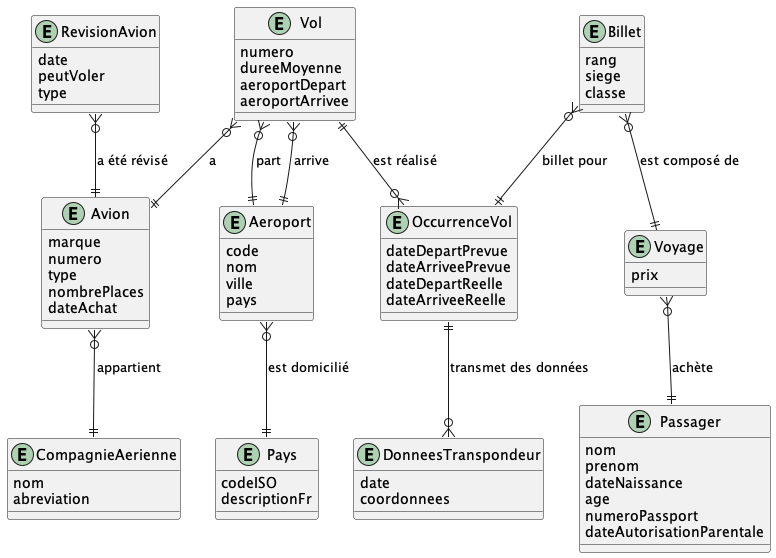
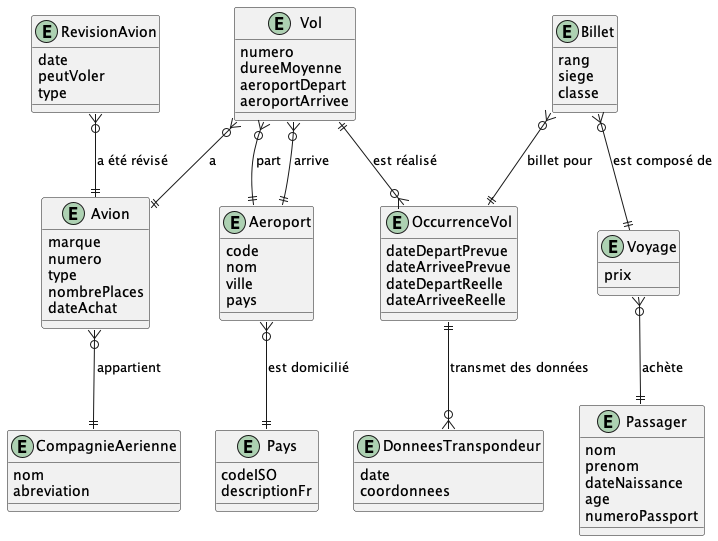
Ajout numéro requete

diff --git a/README.md b/README.md
@@ -1,4 +1,4 @@
-# TP1 - Réservation de billet d'avions
+# TP1 - Réservation de billets d'avions
 
 ## 1 - Directives
 
@@ -12,7 +12,7 @@
 - Tout constat de plagiat, tricherie ou fraude sera automatiquement déclaré à la Direction et les sanctions prévues seront appliquées
 - Vous devez utiliser votre dépôt Git pour faire votre travail : si une situation particulière est détectée, vos commits moduleront votre note dans le groupe et peut même aller jusqu'à un zéro en cas de non participation. (Attention à l'utilisation de 4 mains sur un compte Git !)
 - Durée : 3 x 3 heures + travail à la maison
-- Plate forme : Azure DevOps et dotnet/react
+- Plate forme : Microsoft SQL Server, GitHub, Visual Studio Code
 
 ### 1.2 - À remettre sur la plateforme d'enseignement Léa
 
@@ -37,7 +37,6 @@ Votre analyste vous a indiqué que deux informations ne sont pas forcément rens
 Une lecture rapide du diagramme peut se résumer ainsi :
 
 - Un voyage est composé d'un ou plusieurs billets (étapes). Un billet est associé à une occurrence de vol. Un voyage peut être un aller simple ou un aller-retour. Quand on parle de temps de vol, on parle du temps de vol cumulé estimé. La durée d'un voyage est la durée entre le départ du premier vol et l'arrivée du dernier vol. (Réelle ou estimée si le voyage n'est pas terminé). La durée de vol est la somme des durées de vol de chaque étape sans compter les durées entre les vols.
-- Un voyageur peut être un enfant ou un adulte. Un enfant doit avoir une autorisation parentale (date).
 - Une occurrence de vol est associée à un vol. L'occurrence de vol est le vol réel. Le vol est la définition du vol (numéro, aéroport de départ, aéroport d'arrivée) et il peut donc y avoir plusieurs occurrence de ce vol à des dates différentes.
 
 ## 3 - À réaliser
@@ -50,17 +49,17 @@ Une lecture rapide du diagramme peut se résumer ainsi :
 - Script SQL permettant d'implanter l'ERD (10 points)
 - Créer des données de test (10 points)
 - Écrire les requêtes suivantes :
-  - Afficher l'ensemble des vols disponibles pour chaque compagnie aérienne (5 points)
-  - Afficher les pays par ordre descendant du nombre d'aéroports (5 points)
-  - Afficher l'ensemble des vols qui n'ont pas eu d'occurrence depuis plus de 60 jours (5 points)
-  - Afficher le nombre de voyageurs pour une occurrence de vol donnée (5 points)
-  - Afficher les étapes d'un voyage pour un client donné (5 points)
-  - Afficher les étapes de voyage pour un client avec une numérotation des étapes dans l'ordre et l'addition des durées en vol (hors temps de transit) estimées à la fin de l'étape courante (10 points)
-  - Afficher le voyage le plus long pour le mois courant. Un voyage est considéré dans le mois courant si son premier billet à une date de départ prévue dans le mois (5 points)
-  - Afficher la liste des voyages pour la journée courante (ie qui débute ou a débuté le voyage et qui fini le voyage aujourd'hui ou va finir le voyage plus tard) (5 points)
-  - Afficher le nombre de voyageurs pour la journée courante et un aéroport précis  (5 points)
-  - Afficher les voyages non terminés (ie il peut ne pas avoir débuté) (5 points)
-  - Afficher le nombre de voyageurs ayant un et un seul billet pour un voyage intérieur (Donc une étape) pour une date précise (année, mois et jour) (5 points)
+  1. Afficher l'ensemble des vols disponibles pour chaque compagnie aérienne (5 points)
+  2. Afficher les pays par ordre descendant du nombre d'aéroports (5 points)
+  3. Afficher l'ensemble des vols qui n'ont pas eu d'occurrence depuis plus de 60 jours (5 points)
+  4. Afficher le nombre de voyageurs pour une occurrence de vol donnée (5 points)
+  5. Afficher les étapes d'un voyage pour un client donné (5 points)
+  6. Afficher les étapes de voyage pour un client avec une numérotation des étapes dans l'ordre et l'addition des durées en vol (hors temps de transit) estimées à la fin de l'étape courante (10 points)
+  7. Afficher le voyage le plus long pour le mois courant. Un voyage est considéré dans le mois courant si son premier billet à une date de départ prévue dans le mois (5 points)
+  8. Afficher la liste des voyages pour la journée courante (ie qui débute ou a débuté le voyage et qui fini le voyage aujourd'hui ou va finir le voyage plus tard) (5 points)
+  9. Afficher le nombre de voyageurs pour la journée courante et un aéroport précis  (5 points)
+  10. Afficher les voyages non terminés (ie il peut ne pas avoir débuté) (5 points)
+  11. Afficher le nombre de voyageurs ayant un et un seul billet pour un voyage intérieur (Donc une étape) pour une date précise (année, mois et jour) (5 points)
 
 ## 4 - Contraintes
 
